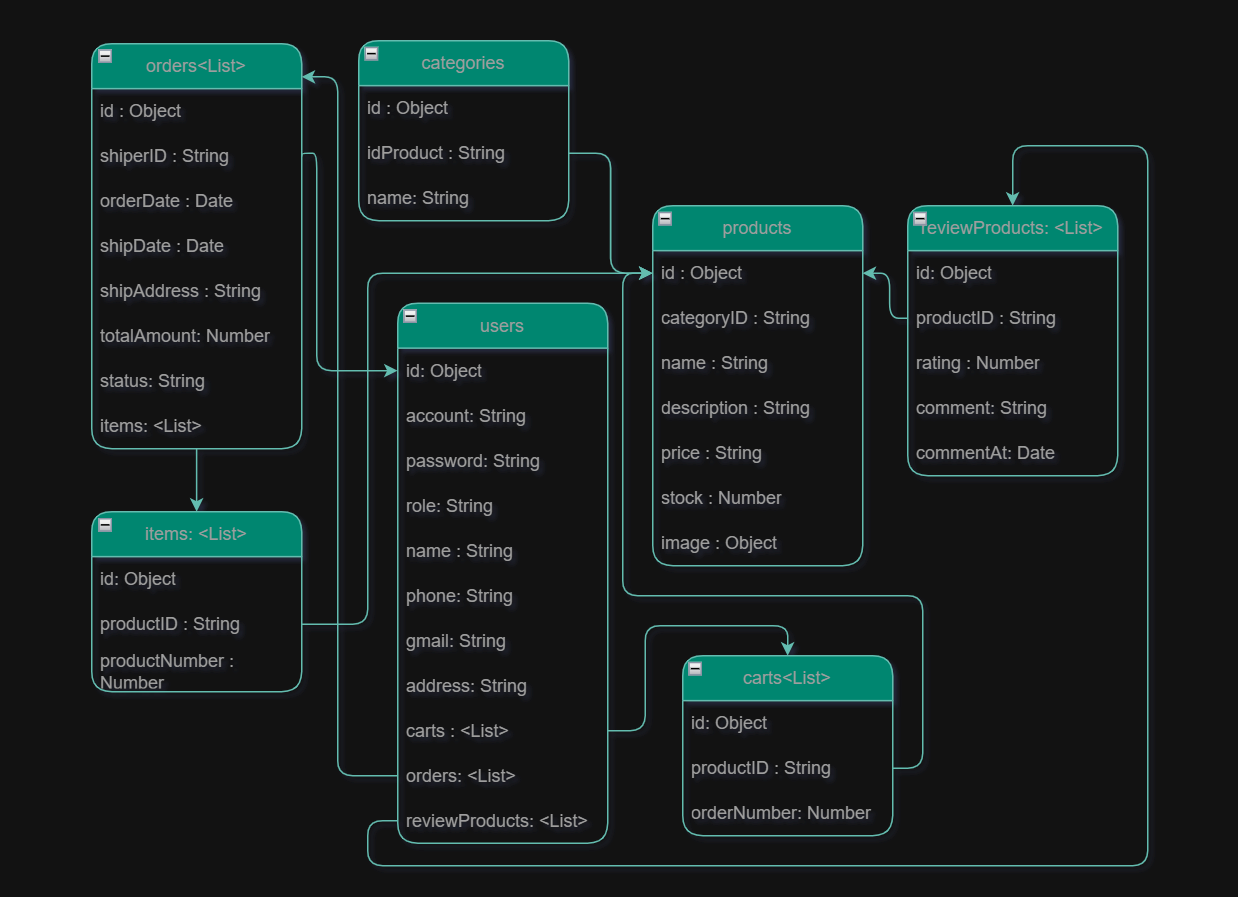
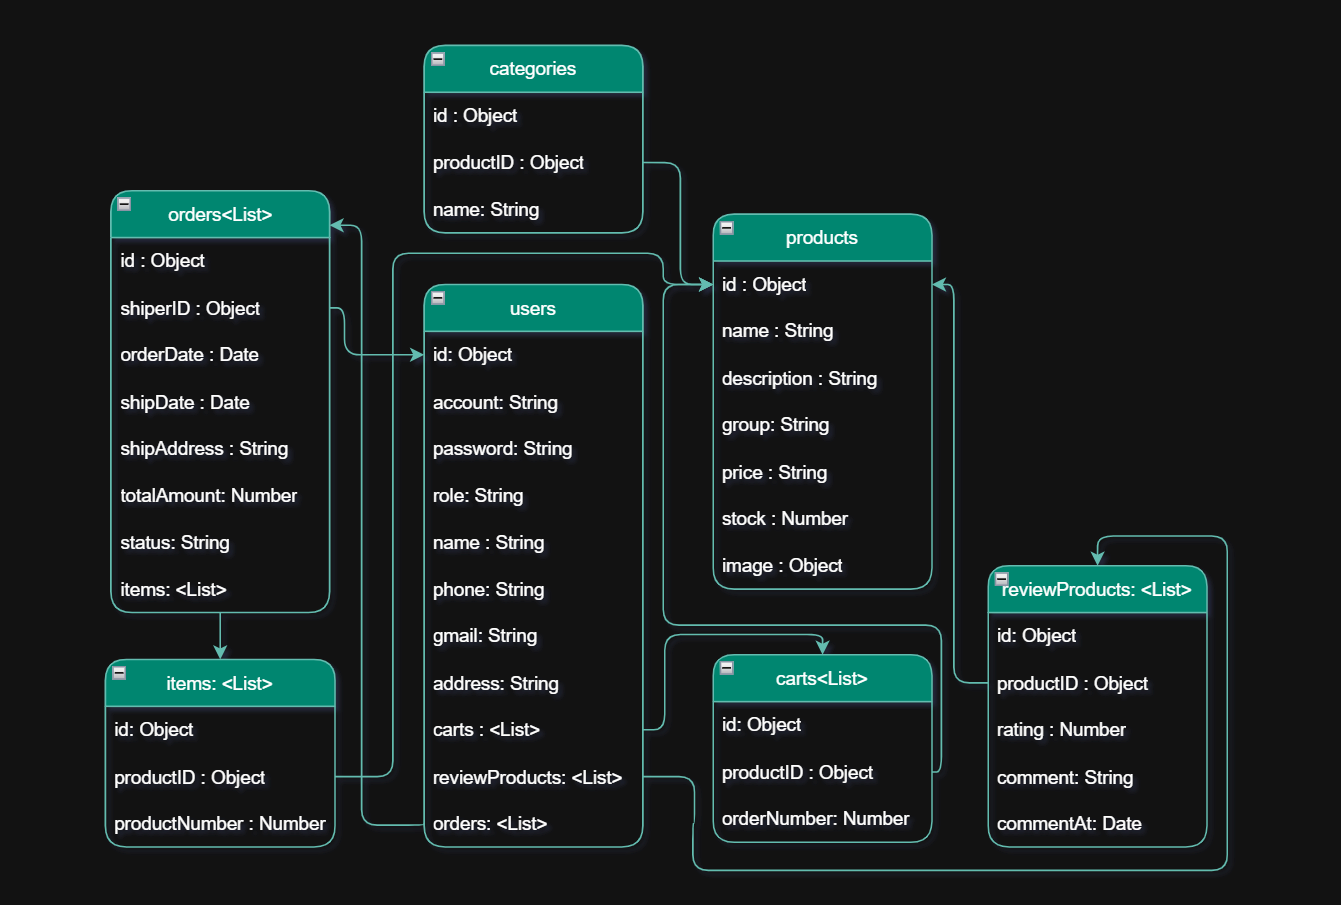
send products for Trung

Changed region(s): [[0.0614, 0.0312, 0.9208, 0.9677], [0.0614, 0.9052, 0.2456, 0.9365], [0.0614, 0.8428, 0.2149, 0.874]]

diff --git a/admin/src/controllers/product-controllers.js b/admin/src/controllers/product-controllers.js
@@ -20,6 +20,7 @@ class ProductController {
     let {
       name: inputName,
       description: inputDescription,
+      group: inputGroup,
       price: inputPrice,
       stock: inputStock,
     } = req.body;
@@ -31,16 +32,11 @@ class ProductController {
         imageData: req.file.buffer,
       };
     }
-    //Xác định user theo account
-    let account = AuthenticateService?.getUser(req, res)?.account;
-    if (!account) {
-      account = null;
-    }
     //New a user
     const newProductModel = new ProductModels({
-      userID: account,
       name: inputName,
       description: inputDescription,
+      group: inputGroup,
       price: inputPrice,
       stock: inputStock,
       image: inputImage,
@@ -64,6 +60,7 @@ class ProductController {
     const id = req.body.id;
     const inputName = req.body.name;
     const inputDescription = req.body.description;
+    const inputGroup = req.body.group;
     const inputPrice = req.body.price;
     const inputStock = req.body.stock;
     const inputImage = req.file;
@@ -71,7 +68,9 @@ class ProductController {
     // for (const key in req.body) {
     //   console.log(key, req.body[key]);
     // }
-    if (!(inputName && inputDescription && inputPrice && inputStock)) {
+    if (
+      !(inputName && inputDescription && inputGroup && inputPrice && inputStock)
+    ) {
       return res.redirect(`/products/edit/${id}?type=error&info=missing-data`);
     }
     const product = await ProductModels.findById(id);
@@ -81,6 +80,7 @@ class ProductController {
     //Update new data
     product.name = inputName;
     product.description = inputDescription;
+    product.group = inputGroup;
     product.price = inputPrice;
     product.stock = inputStock;
     //hasImage will save
@@ -93,23 +93,6 @@ class ProductController {
     }
     await product.save();
     res.redirect("/products");
-  }
-  async add(req, res) {
-    //Xác định product và number
-    const inputProductID = req.body.id;
-    const inputNumber = req.body.number;
-    //Xác định user
-    const accountAuthenticate = AuthenticateService.getUser(req, res)?.account;
-    const user = await UserModels.findOne({ account: accountAuthenticate });
-
-    user.carts.push({
-      productID: inputProductID,
-      orderNumber: inputNumber,
-    });
-
-    await user.save();
-
-    res.status(200).json({ message: "SUCCESS - Add to cart" });
   }
 }
 

diff --git a/admin/src/public/js/script.js b/admin/src/public/js/script.js
@@ -1,28 +1,28 @@
-const addToCartList = document.querySelectorAll(".addToCart");
+// const addToCartList = document.querySelectorAll(".addToCart");
 
-// Bởi vì chỉ trong products add to cart mới hoạt động
-if (addToCartList) {
-  addToCartList.forEach((item) => {
-    item.addEventListener("submit", async (e) => {
-      e.preventDefault();
-      const formData = new FormData(item);
-      try {
-        const res = await fetch("/products/add", {
-          method: "POST",
-          body: formData,
-        });
-        if (res.ok) {
-          item.reset();
-          const result = await res.json();
-          Swal.fire({
-            title: result.message,
-            icon: "success",
-            draggable: true,
-          });
-        }
-      } catch (error) {
-        console.log("ERROR:", error);
-      }
-    });
-  });
-}
+// // Bởi vì chỉ trong products add to cart mới hoạt động
+// if (addToCartList) {
+//   addToCartList.forEach((item) => {
+//     item.addEventListener("submit", async (e) => {
+//       e.preventDefault();
+//       const formData = new FormData(item);
+//       try {
+//         const res = await fetch("/products/add", {
+//           method: "POST",
+//           body: formData,
+//         });
+//         if (res.ok) {
+//           item.reset();
+//           const result = await res.json();
+//           Swal.fire({
+//             title: result.message,
+//             icon: "success",
+//             draggable: true,
+//           });
+//         }
+//       } catch (error) {
+//         console.log("ERROR:", error);
+//       }
+//     });
+//   });
+// }

diff --git a/admin/src/routes/main-routes.js b/admin/src/routes/main-routes.js
@@ -1,13 +1,11 @@
 const authenticateRoutes = require("./authenticate-routes");
 const userRoutes = require("./user-routes");
 const productRoutes = require("./product-routes");
-const cartRoutes = require("./cart-routes");
 
 function mainRoutes(app) {
   app.use(authenticateRoutes);
   app.use("/users", userRoutes);
   app.use("/products", productRoutes);
-  app.use("/carts", cartRoutes);
 }
 
 module.exports = mainRoutes;

diff --git a/admin/src/routes/product-routes.js b/admin/src/routes/product-routes.js
@@ -18,7 +18,6 @@ route.get("/show/:id", ProductControllers.show);
 route.get("/destroy/:id", ProductControllers.destroy);
 route.get("/edit/:id", ProductControllers.edit);
 route.post("/update", ProductControllers.update);
-route.post("/add", ProductControllers.add);
 
 //-------------------------------------
 module.exports = route;

diff --git a/admin/src/middleware/authenticate-middleware.js b/admin/src/middleware/authenticate-middleware.js
@@ -2,7 +2,7 @@ const authenticateDB = require("../service/authenticate-db-service");
 
 function authenticateMiddleware(req, res, next) {
   //turn on/off
-  // return next();
+  return next();
   //-----------
   let hasAuthenticate = req.cookies.authenticateDB in authenticateDB;
   // Authenticate rồi thì mới được vào

diff --git a/admin/src/models/product-models.js b/admin/src/models/product-models.js
@@ -6,6 +6,7 @@ const products = new Schema({
   categoryID: { type: String },
   name: { type: String },
   description: { type: String },
+  group: { type: String },
   price: { type: Number },
   stock: { type: Number },
   image: {
